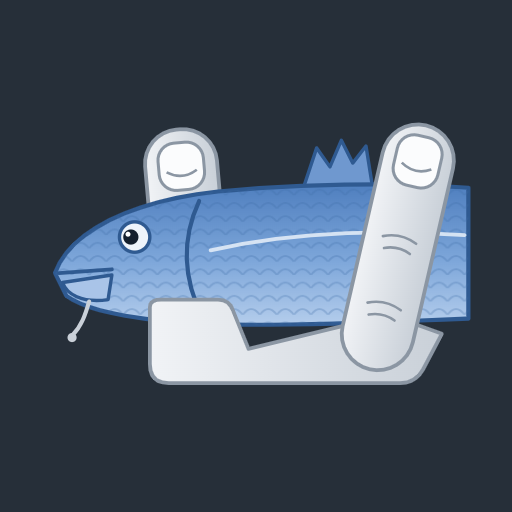
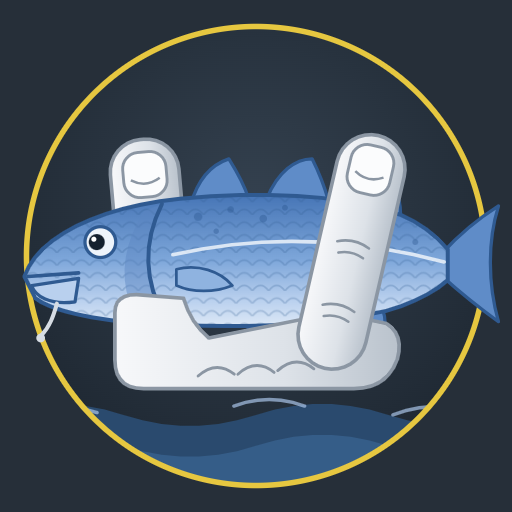
Redraw the club badge as a round embroidered patch
Gold stitched ring with the club name, the cod and hand on a navy disc
above the sea, and a fuller cod with speckles, gill cover, three dorsal
fins and a tail. App icons are re-rendered from the new badge.

diff --git a/index.html b/index.html
@@ -64,11 +64,12 @@ button, input, select { font: inherit; color: inherit; }
 .mast { background: var(--fabric); color: #f2f4f7; padding-inline: 16px; position: relative; overflow: hidden; }
 .mast-in, .tabs { position: relative; z-index: 1; }
 .mast-in { max-width: 1040px; margin: 0 auto; display: flex; align-items: center; gap: 20px; padding-block: 14px 0; flex-wrap: wrap; }
-.badge { width: 230px; max-width: 46vw; height: auto; flex: none; overflow: visible; cursor: pointer; }
-.badge-text { font-family: "Fredoka", "Arial Rounded MT Bold", "Trebuchet MS", sans-serif; font-weight: 600; font-size: 27px; letter-spacing: .5px; fill: #e6c740; }
+.badge { width: 168px; max-width: 42vw; height: auto; flex: none; overflow: visible; cursor: pointer; }
+.badge-text { font-family: "Fredoka", "Arial Rounded MT Bold", "Trebuchet MS", sans-serif; font-weight: 600; font-size: 25px; letter-spacing: 1px; fill: #e6c740; }
+.badge-sub { font-family: var(--font-display); font-weight: 700; font-size: 17px; letter-spacing: 6px; fill: #d6dce3; }
 
 /* The cod in the badge wriggles in the hand and blows bubbles */
-.grip-fish { transform-box: view-box; transform-origin: 232px 140px; animation: wriggle 1.7s ease-in-out infinite alternate; }
+.grip-fish { transform-box: fill-box; transform-origin: 70% 55%; animation: wriggle 1.7s ease-in-out infinite alternate; }
 .jaw { transform-box: fill-box; transform-origin: 100% 0%; animation: gulp 1.7s ease-in-out infinite alternate; }
 .bubble { fill: none; stroke: #a9c4e8; stroke-width: 1.6; opacity: 0; transform-box: fill-box; transform-origin: center; animation: rise 3.4s ease-in infinite; }
 .bubble.b2 { animation-delay: 1.1s; } .bubble.b3 { animation-delay: 2.2s; }
@@ -218,58 +219,86 @@ td.cell .dropped { text-decoration: line-through; opacity: .5; }
     <div class="swimmer near"><div class="bob"></div></div>
   </div>
   <div class="mast-in">
-    <svg class="badge" id="badge" viewBox="0 0 320 212" role="img" aria-label="Easington Fishing Club badge: a cod held between finger and thumb">
-      <defs>
-        <linearGradient id="codSkin" x1="0" y1="0" x2="0" y2="1">
-          <stop offset="0" stop-color="#4f7fbf"/><stop offset=".55" stop-color="#7ea7da"/><stop offset="1" stop-color="#b4cdec"/>
-        </linearGradient>
-        <linearGradient id="skin" x1="0" y1="0" x2="1" y2="0">
-          <stop offset="0" stop-color="#f1f3f6"/><stop offset="1" stop-color="#c9d0d8"/>
-        </linearGradient>
-        <pattern id="scales" width="9" height="7" patternUnits="userSpaceOnUse">
-          <path d="M0 7 Q4.5 1 9 7" fill="none" stroke="#3d6aa6" stroke-opacity=".28" stroke-width="1"/>
-        </pattern>
-        <path id="arc" d="M34 124 A126 100 0 0 1 286 124"/>
-      </defs>
-      <text class="badge-text"><textPath href="#arc" startOffset="50%" text-anchor="middle">Easington Fishing Club</textPath></text>
+    <svg class="badge" id="badge" viewBox="0 0 320 320" role="img" aria-label="Easington Fishing Club badge: a cod held between finger and thumb above the sea">
+  <defs>
+    <linearGradient id="codSkin" x1="0" y1="0" x2="0" y2="1">
+      <stop offset="0" stop-color="#4675b6"/><stop offset=".5" stop-color="#7ea7da"/><stop offset=".8" stop-color="#b9d0ee"/><stop offset="1" stop-color="#dce8f6"/>
+    </linearGradient>
+    <linearGradient id="skin" x1="0" y1="0" x2="1" y2="0">
+      <stop offset="0" stop-color="#f7f8fa"/><stop offset=".6" stop-color="#dde2e8"/><stop offset="1" stop-color="#b9c2cc"/>
+    </linearGradient>
+    <radialGradient id="discBg" cx=".5" cy=".38" r=".7">
+      <stop offset="0" stop-color="#34414f"/><stop offset="1" stop-color="#1c252f"/>
+    </radialGradient>
+    <pattern id="scales" width="9" height="7" patternUnits="userSpaceOnUse">
+      <path d="M0 7 Q4.5 1 9 7" fill="none" stroke="#2f5a91" stroke-opacity=".25" stroke-width="1"/>
+    </pattern>
+    <clipPath id="discClip"><circle cx="160" cy="160" r="104"/></clipPath>
+    <path id="arcTop" d="M42 160 A118 118 0 0 1 278 160"/>
+    <path id="arcBottom" d="M26 160 A134 134 0 0 0 294 160"/>
+  </defs>
+  <circle cx="160" cy="160" r="154" fill="#2c3642" stroke="#e6c740" stroke-width="5"/>
+  <circle cx="160" cy="160" r="146" fill="none" stroke="#e6c740" stroke-width="1.6" stroke-dasharray="3 4" opacity=".75"/>
+  <text class="badge-text"><textPath href="#arcTop" startOffset="50%" text-anchor="middle">Easington Fishing Club</textPath></text>
+  <text class="badge-sub"><textPath href="#arcBottom" startOffset="50%" text-anchor="middle">SEA ANGLING</textPath></text>
+  <path transform="translate(31 172)" d="M0 -7 L2 -2.2 L7 -2.2 L3 1 L4.4 6 L0 3 L-4.4 6 L-3 1 L-7 -2.2 L-2 -2.2 Z" fill="#e6c740"/><path transform="translate(289 172)" d="M0 -7 L2 -2.2 L7 -2.2 L3 1 L4.4 6 L0 3 L-4.4 6 L-3 1 L-7 -2.2 L-2 -2.2 Z" fill="#e6c740"/>
+  <circle cx="160" cy="160" r="104" fill="url(#discBg)"/>
+  <g clip-path="url(#discClip)">
+    <path d="M40 232 Q70 222 100 232 T160 232 T220 232 T280 232 V280 H40 Z" fill="#2a4a6e"/>
+    <path d="M40 246 Q70 236 100 246 T160 246 T220 246 T280 246 V280 H40 Z" fill="#355d88"/>
+    <path d="M52 232 Q70 225 88 231 M150 228 Q166 222 182 228 M222 232 Q240 225 258 231" fill="none" stroke="#a9c4e8" stroke-width="1.6" stroke-linecap="round" opacity=".7"/>
+  </g>
+  <circle cx="160" cy="160" r="104" fill="none" stroke="#e6c740" stroke-width="2.5"/>
+  <g transform="translate(160 166) scale(.82) translate(-182 -142)">
+    <!-- thumb, behind the fish -->
+    <g transform="rotate(-5 125 140)">
+      <rect x="106" y="70" width="38" height="112" rx="18" fill="url(#skin)" stroke="#8b96a3" stroke-width="2"/>
+      <rect x="113" y="77" width="24" height="25" rx="9" fill="#fbfcfd" stroke="#8b96a3" stroke-width="1.6"/>
+      <path d="M117 92 q8 5 16 0" fill="none" stroke="#8b96a3" stroke-width="1.4"/>
+    </g>
 
-      <!-- thumb, behind the fish -->
-      <g transform="rotate(-5 125 140)">
-        <rect x="106" y="70" width="38" height="112" rx="18" fill="url(#skin)" stroke="#8b96a3" stroke-width="2"/>
-        <rect x="113" y="77" width="24" height="25" rx="9" fill="#fbfcfd" stroke="#8b96a3" stroke-width="1.6"/>
-        <path d="M117 92 q8 5 16 0" fill="none" stroke="#8b96a3" stroke-width="1.4"/>
+    <!-- the cod -->
+    <g class="grip-fish">
+      <g fill="#5f8cc8" stroke="#2f5a91" stroke-width="1.8" stroke-linejoin="round">
+        <path d="M146 106 C150 92 158 84 167 81 C172 89 176 97 178 103 Z"/>
+        <path d="M188 103 C194 88 204 81 213 81 C217 89 220 97 222 104 Z"/>
+        <path d="M236 108 C242 96 250 91 257 91 C261 99 262 107 262 114 Z"/>
+        <path d="M176 172 C183 184 193 189 202 187 C204 181 204 176 204 171 Z"/>
+        <path d="M228 167 C235 178 244 183 252 181 C254 175 254 170 252 164 Z"/>
+        <path d="M285 133 C295 122 305 114 316 107 C310 126 310 150 316 171 C305 163 295 155 285 146 Z"/>
       </g>
+      <path d="M54 146 C62 124 94 108 140 103 C182 99 230 100 262 112 C274 117 282 124 288 131 L288 148 C280 155 268 161 254 165 C214 174 176 174 140 173 C104 172 72 167 60 158 Z" fill="url(#codSkin)" stroke="#2f5a91" stroke-width="2.2" stroke-linejoin="round"/>
+      <path d="M54 146 C62 124 94 108 140 103 C182 99 230 100 262 112 C274 117 282 124 288 131 L288 148 C280 155 268 161 254 165 C214 174 176 174 140 173 C104 172 72 167 60 158 Z" fill="url(#scales)"/>
+      <g fill="#24508a" opacity=".35">
+        <circle cx="150" cy="113" r="2.3"/><circle cx="168" cy="109" r="1.8"/><circle cx="186" cy="114" r="2.1"/><circle cx="198" cy="108" r="1.6"/>
+        <circle cx="236" cy="114" r="2.2"/><circle cx="252" cy="121" r="1.7"/><circle cx="270" cy="127" r="1.6"/><circle cx="160" cy="121" r="1.5"/>
+      </g>
+      <path d="M136 134 C180 124 230 123 286 138" fill="none" stroke="#eef4fb" stroke-width="2" stroke-linecap="round" opacity=".85"/>
+      <path d="M130 106 Q114 138 132 170 Q120 168 112 160 Q104 136 120 110 Z" fill="#5a86c2" opacity=".45"/>
+      <path d="M130 106 Q114 138 132 170" fill="none" stroke="#2f5a91" stroke-width="2.2" stroke-linecap="round"/>
+      <path d="M138 142 C150 139 162 143 169 151 C159 155 147 155 138 151 Z" fill="#8fb3e0" stroke="#2f5a91" stroke-width="1.5" stroke-linejoin="round"/>
+      <circle cx="96" cy="127" r="8.5" fill="#eef4fb" stroke="#2f5a91" stroke-width="1.8"/>
+      <circle cx="94" cy="127" r="4.4" fill="#14202e"/>
+      <circle cx="92.4" cy="125.4" r="1.4" fill="#fff"/>
+      <path d="M56 146 L84 144" stroke="#2f5a91" stroke-width="2" stroke-linecap="round"/>
+      <path class="jaw" d="M84 147 L58 151 C60 157 68 162 82 160 Z" fill="#b9d0ee" stroke="#2f5a91" stroke-width="1.8" stroke-linejoin="round"/>
+      <path d="M72 161 C70 168 68 174 63 179" fill="none" stroke="#d6dce3" stroke-width="2.2" stroke-linecap="round"/>
+      <circle cx="63" cy="180" r="2.4" fill="#d6dce3"/>
+    </g>
+    <circle class="bubble" cx="50" cy="140" r="4"/>
+    <circle class="bubble b2" cx="46" cy="136" r="3"/>
+    <circle class="bubble b3" cx="52" cy="142" r="5"/>
 
-      <!-- the cod -->
-      <g class="grip-fish">
-        <path d="M184 104 L192 80 L199 90 L205 76 L211 88 L218 79 L222 104 Z" fill="#6f98cf" stroke="#2f5a91" stroke-width="1.8" stroke-linejoin="round"/>
-        <path d="M54 146 C62 124 94 108 140 103 C182 99 232 98 272 101 L272 170 C224 172 176 174 140 173 C104 172 72 167 60 158 Z" fill="url(#codSkin)" stroke="#2f5a91" stroke-width="2.2" stroke-linejoin="round"/>
-        <path d="M54 146 C62 124 94 108 140 103 C182 99 232 98 272 101 L272 170 C224 172 176 174 140 173 C104 172 72 167 60 158 Z" fill="url(#scales)"/>
-        <path d="M136 134 C180 124 226 123 270 126" fill="none" stroke="#e8f0fa" stroke-width="2" stroke-linecap="round" opacity=".85"/>
-        <path d="M130 108 Q116 138 132 170" fill="none" stroke="#2f5a91" stroke-width="2.2" stroke-linecap="round"/>
-        <path d="M120 113 Q110 138 122 164" fill="none" stroke="#2f5a91" stroke-width="1.4" stroke-linecap="round" opacity=".6"/>
-        <circle cx="96" cy="127" r="8" fill="#eef4fb" stroke="#2f5a91" stroke-width="1.8"/>
-        <circle cx="94" cy="127" r="4" fill="#14202e"/>
-        <circle cx="92.5" cy="125.5" r="1.3" fill="#fff"/>
-        <path d="M56 146 L84 144" stroke="#2f5a91" stroke-width="2" stroke-linecap="round"/>
-        <path class="jaw" d="M84 147 L58 151 C60 157 68 162 82 160 Z" fill="#a9c4e8" stroke="#2f5a91" stroke-width="1.8" stroke-linejoin="round"/>
-        <path d="M72 161 C70 168 68 174 63 179" fill="none" stroke="#c9d0d8" stroke-width="2.2" stroke-linecap="round"/>
-        <circle cx="63" cy="180" r="2.4" fill="#c9d0d8"/>
-      </g>
-      <circle class="bubble" cx="50" cy="140" r="4"/>
-      <circle class="bubble b2" cx="46" cy="136" r="3"/>
-      <circle class="bubble b3" cx="52" cy="142" r="5"/>
-
-      <!-- finger and palm, in front of the fish -->
-      <path d="M104 164 Q104 160 110 160 L140 160 Q146 160 148 166 L156 186 L230 168 L258 178 L248 197 Q244 204 236 204 L114 204 Q104 204 104 194 Z" fill="url(#skin)" stroke="#8b96a3" stroke-width="2" stroke-linejoin="round"/>
-      <path d="M154 194 Q160 198 168 196" fill="none" stroke="#8b96a3" stroke-width="1.6" stroke-linecap="round"/>
-      <g transform="rotate(13 232 140)">
-        <rect x="214" y="66" width="38" height="132" rx="19" fill="url(#skin)" stroke="#8b96a3" stroke-width="2"/>
-        <rect x="221" y="72" width="24" height="27" rx="9" fill="#fbfcfd" stroke="#8b96a3" stroke-width="1.6"/>
-        <path d="M225 88 q8 5 16 0" fill="none" stroke="#8b96a3" stroke-width="1.4"/>
-        <path d="M224 128 q9 -4 18 0 M226 134 q7 -3 14 0" fill="none" stroke="#8b96a3" stroke-width="1.4" stroke-linecap="round"/>
-        <path d="M224 164 q9 -4 18 0 M226 170 q7 -3 14 0" fill="none" stroke="#8b96a3" stroke-width="1.4" stroke-linecap="round"/>
-      </g>
+    <!-- fist and finger, in front of the fish -->
+    <path d="M104 166 Q104 156 116 156 L142 158 Q146 172 156 180 L226 166 L254 172 Q264 178 260 192 Q254 208 236 208 L120 208 Q104 208 104 192 Z" fill="url(#skin)" stroke="#8b96a3" stroke-width="2" stroke-linejoin="round"/>
+    <path d="M150 201 q10 -9 20 -1 M172 200 q10 -9 20 -1 M194 198 q10 -9 20 -1" fill="none" stroke="#8b96a3" stroke-width="1.6" stroke-linecap="round"/>
+    <g transform="rotate(13 232 140)">
+      <rect x="214" y="66" width="38" height="132" rx="19" fill="url(#skin)" stroke="#8b96a3" stroke-width="2"/>
+      <rect x="221" y="72" width="24" height="27" rx="9" fill="#fbfcfd" stroke="#8b96a3" stroke-width="1.6"/>
+      <path d="M225 88 q8 5 16 0" fill="none" stroke="#8b96a3" stroke-width="1.4"/>
+      <path d="M224 128 q9 -4 18 0 M226 134 q7 -3 14 0 M224 164 q9 -4 18 0 M226 170 q7 -3 14 0" fill="none" stroke="#8b96a3" stroke-width="1.4" stroke-linecap="round"/>
+    </g>
+  </g>
     </svg>
     <div class="mast-text">
       <div class="eyebrow" id="season-line">Points Championship</div>

diff --git a/sw.js b/sw.js
@@ -1,6 +1,6 @@
 // Keeps the app working with a poor signal on the beach: always tries the
 // network first for fresh results, and falls back to the last copy saved.
-const CACHE = "esac-v2";
+const CACHE = "esac-v3";
 const SHELL = ["./", "index.html", "manifest.webmanifest", "icon.svg", "icon-192.png", "icon-512.png", "apple-touch-icon.png", "data/seasons.json", "data/2026-27.json", "data/2025-26.json"];
 
 self.addEventListener("install", e => {
